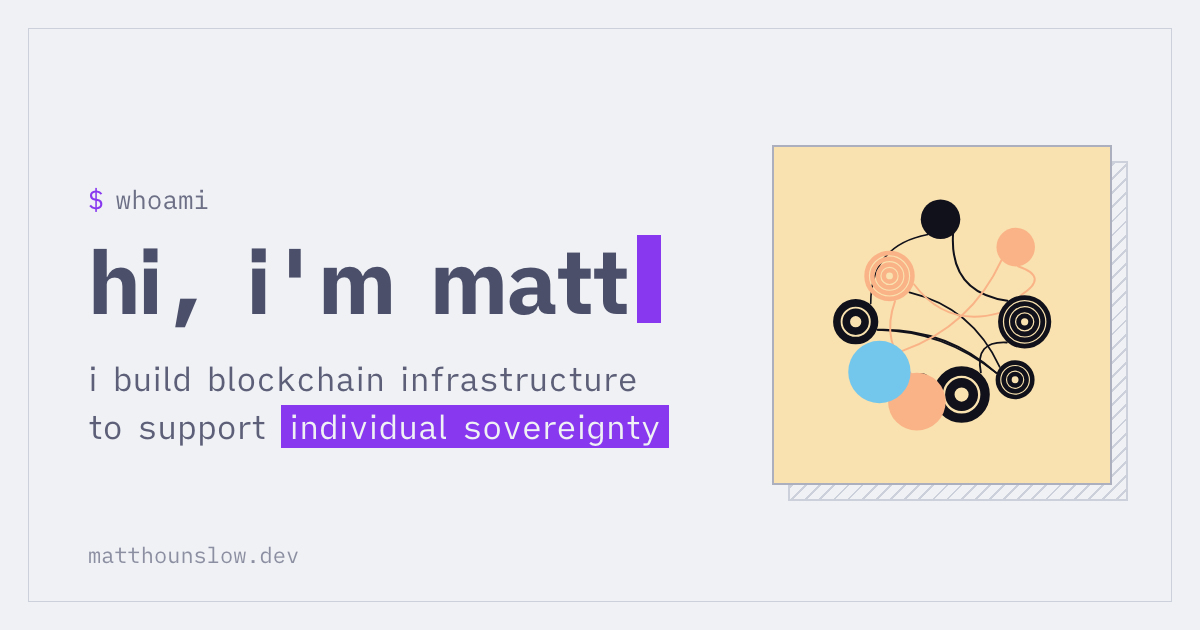
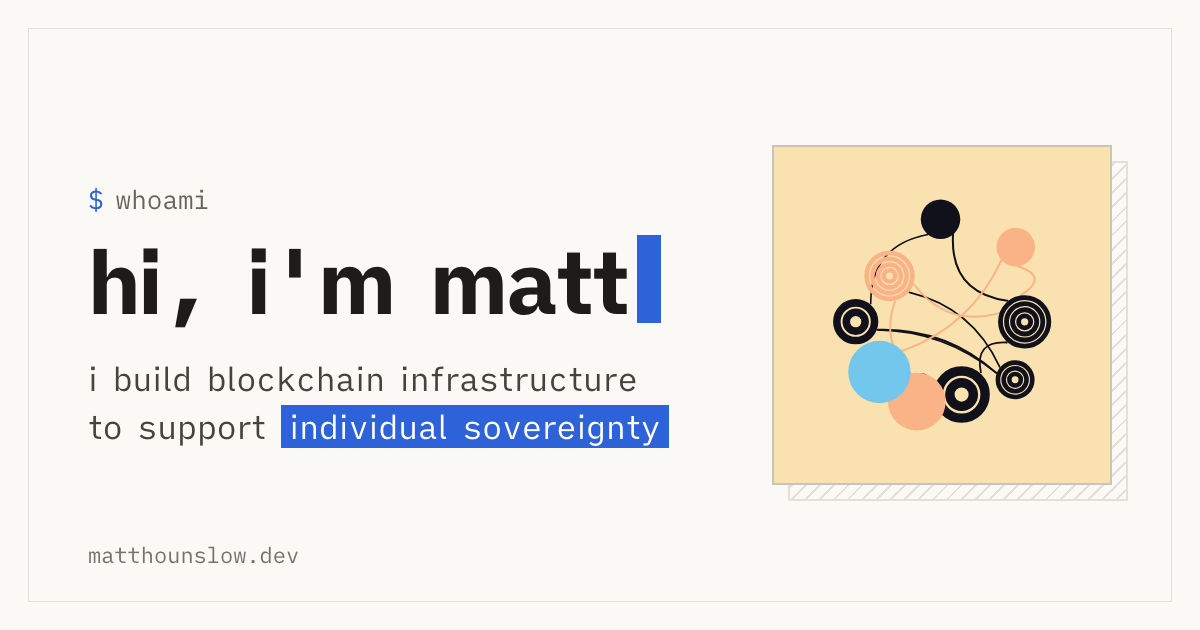
Switch to ivory/charcoal palette with blue and clay accents
- Replace catppuccin tokens with warm neutral light/dark themes
- Blue primary accent, clay secondary; darker muted text for contrast
- Drop the scanline overlay
- Re-render the social preview image

diff --git a/assets/site.css b/assets/site.css
@@ -1,5 +1,5 @@
 /* matthounslow.dev — shared styles
-   palette: catppuccin latte (light) / mocha (dark) */
+   palette: warm ivory / charcoal neutrals, blue primary, clay secondary */
 
 @font-face {
     font-family: "iA Writer Quattro";
@@ -25,25 +25,20 @@
 
 :root {
     color-scheme: light;
-    --bg: #eff1f5;
-    --bg-alt: #e6e9ef;
-    --bg-sunk: #dce0e8;
-    --line: #ccd0da;
-    --line-strong: #acb0be;
-    --muted: #8c8fa1;
-    --text-3: #6c6f85;
-    --text-2: #5c5f77;
-    --text: #4c4f69;
-    --accent: #8839ef;
-    --pink: #ea76cb;
-    --sky: #04a5e5;
-    --green: #40a02b;
-    --blue: #1e66f5;
-    --peach: #fe640b;
-    --yellow: #df8e1d;
-    --on-accent: #eff1f5;
-    --header-bg: rgb(239 241 245 / 0.82);
-    --scanline: rgb(136 57 239 / 0.022);
+    --bg: #faf9f5;
+    --bg-alt: #f2f0e8;
+    --bg-sunk: #e9e6dc;
+    --line: #e4e0d5;
+    --line-strong: #c9c4b6;
+    --muted: #76726a;
+    --text-3: #67645b;
+    --text-2: #45433d;
+    --text: #1d1c1a;
+    --accent: #2e62d9;
+    --clay: #c6613f;
+    --sky: #2a8fc7;
+    --on-accent: #ffffff;
+    --header-bg: rgb(250 249 245 / 0.86);
 
     --font-sans: "iA Writer Quattro", -apple-system, system-ui, "Segoe UI", Roboto, "Helvetica Neue", Arial, sans-serif;
     --font-mono: "iA Writer Mono", ui-monospace, "SF Mono", Menlo, Consolas, monospace;
@@ -54,48 +49,38 @@
 @media (prefers-color-scheme: dark) {
     :root:not([data-theme="light"]) {
         color-scheme: dark;
-        --bg: #1e1e2e;
-        --bg-alt: #181825;
-        --bg-sunk: #11111b;
-        --line: #313244;
-        --line-strong: #585b70;
-        --muted: #7f849c;
-        --text-3: #a6adc8;
-        --text-2: #bac2de;
-        --text: #cdd6f4;
-        --accent: #cba6f7;
-        --pink: #f5c2e7;
-        --sky: #89dceb;
-        --green: #a6e3a1;
-        --blue: #89b4fa;
-        --peach: #fab387;
-        --yellow: #f9e2af;
-        --on-accent: #11111b;
-        --header-bg: rgb(30 30 46 / 0.82);
-        --scanline: rgb(0 0 0 / 0.07);
+        --bg: #21201e;
+        --bg-alt: #2a2926;
+        --bg-sunk: #181816;
+        --line: #35332f;
+        --line-strong: #56534c;
+        --muted: #8f8b82;
+        --text-3: #aeaaa0;
+        --text-2: #d0ccc2;
+        --text: #f2f0e8;
+        --accent: #7da6ff;
+        --clay: #e38c6c;
+        --sky: #6cc0ec;
+        --on-accent: #141413;
+        --header-bg: rgb(33 32 30 / 0.86);
     }
 }
 :root[data-theme="dark"] {
     color-scheme: dark;
-    --bg: #1e1e2e;
-    --bg-alt: #181825;
-    --bg-sunk: #11111b;
-    --line: #313244;
-    --line-strong: #585b70;
-    --muted: #7f849c;
-    --text-3: #a6adc8;
-    --text-2: #bac2de;
-    --text: #cdd6f4;
-    --accent: #cba6f7;
-    --pink: #f5c2e7;
-    --sky: #89dceb;
-    --green: #a6e3a1;
-    --blue: #89b4fa;
-    --peach: #fab387;
-    --yellow: #f9e2af;
-    --on-accent: #11111b;
-    --header-bg: rgb(30 30 46 / 0.82);
-    --scanline: rgb(0 0 0 / 0.07);
+    --bg: #21201e;
+    --bg-alt: #2a2926;
+    --bg-sunk: #181816;
+    --line: #35332f;
+    --line-strong: #56534c;
+    --muted: #8f8b82;
+    --text-3: #aeaaa0;
+    --text-2: #d0ccc2;
+    --text: #f2f0e8;
+    --accent: #7da6ff;
+    --clay: #e38c6c;
+    --sky: #6cc0ec;
+    --on-accent: #141413;
+    --header-bg: rgb(33 32 30 / 0.86);
 }
 
 *,
@@ -121,15 +106,6 @@ body {
     text-rendering: optimizeLegibility;
 }
 
-/* faint crt scanlines — static, no animation */
-body::after {
-    content: "";
-    position: fixed;
-    inset: 0;
-    pointer-events: none;
-    z-index: 100;
-    background: repeating-linear-gradient(to bottom, transparent 0 2px, var(--scanline) 2px 4px);
-}
 
 ::selection {
     background: var(--accent);
@@ -513,7 +489,6 @@ main {
 }
 
 @media print {
-    body::after,
     .site-header,
     .site-footer,
     .skip-link,

diff --git a/index.html b/index.html
@@ -9,7 +9,7 @@
                 if (t === "light" || t === "dark") document.documentElement.dataset.theme = t;
             } catch (e) {}
         </script>
-        <meta name="theme-color" content="#eff1f5" />
+        <meta name="theme-color" content="#faf9f5" />
 
         <title>matt hounslow — software developer</title>
         <meta
@@ -304,10 +304,10 @@
                 color: var(--card-accent, var(--accent));
                 border-bottom-color: currentColor;
             }
-            .accent-pink {
-                --card-accent: var(--pink);
+            .accent-clay {
+                --card-accent: var(--clay);
             }
-            .accent-mauve {
+            .accent-blue {
                 --card-accent: var(--accent);
             }
             .accent-sky {
@@ -536,7 +536,7 @@
             <section class="section" id="projects" aria-labelledby="projects-title">
                 <h2 class="section-title" id="projects-title"><span class="hash">#</span>projects</h2>
                 <div class="cards">
-                    <article class="card accent-pink">
+                    <article class="card accent-clay">
                         <div class="card-head">
                             <h3><a href="https://github.com/input-output-hk/acropolis" target="_blank" rel="noopener">acropolis node<span class="arrow" aria-hidden="true">↗</span></a></h3>
                             <div class="tags"><span class="tag">rust</span><span class="tag">cardano</span><span class="tag">grpc</span></div>
@@ -552,7 +552,7 @@
                         </p>
                     </article>
 
-                    <article class="card accent-mauve">
+                    <article class="card accent-blue">
                         <div class="card-head">
                             <h3><a href="https://github.com/LFDT-Minokawa/compact" target="_blank" rel="noopener">compact language<span class="arrow" aria-hidden="true">↗</span></a></h3>
                             <div class="tags"><span class="tag">typescript</span><span class="tag">rust</span><span class="tag">zero knowledge</span></div>

diff --git a/404.html b/404.html
@@ -9,7 +9,7 @@
                 if (t === "light" || t === "dark") document.documentElement.dataset.theme = t;
             } catch (e) {}
         </script>
-        <meta name="theme-color" content="#eff1f5" />
+        <meta name="theme-color" content="#faf9f5" />
         <meta name="robots" content="noindex" />
         <title>404 — matt hounslow</title>
         <link rel="icon" type="image/svg+xml" href="/favicon.svg" />

diff --git a/assets/site.js b/assets/site.js
@@ -10,7 +10,7 @@
 
     function syncThemeColor() {
         var meta = document.querySelector('meta[name="theme-color"]');
-        if (meta) meta.setAttribute("content", currentTheme() === "dark" ? "#1e1e2e" : "#eff1f5");
+        if (meta) meta.setAttribute("content", currentTheme() === "dark" ? "#21201e" : "#faf9f5");
     }
 
     function syncToggleLabel(button) {

diff --git a/art.html b/art.html
@@ -9,7 +9,7 @@
                 if (t === "light" || t === "dark") document.documentElement.dataset.theme = t;
             } catch (e) {}
         </script>
-        <meta name="theme-color" content="#eff1f5" />
+        <meta name="theme-color" content="#faf9f5" />
 
         <title>generative art — matt hounslow</title>
         <meta

diff --git a/README.md b/README.md
@@ -6,7 +6,7 @@ Personal site — plain HTML/CSS, no build step. Deployed to GitHub Pages by
 - `index.html` — home
 - `art.html` — engram gallery (image list lives in `assets/engrams.js`)
 - `resume.pdf` — linked from the nav and hero; replace this file to update the resume
-- `assets/site.css` / `assets/site.js` — shared styles (catppuccin latte/mocha) and theme toggle
+- `assets/site.css` / `assets/site.js` — shared styles (light/dark tokens) and theme toggle
 
 Preview locally:
 
